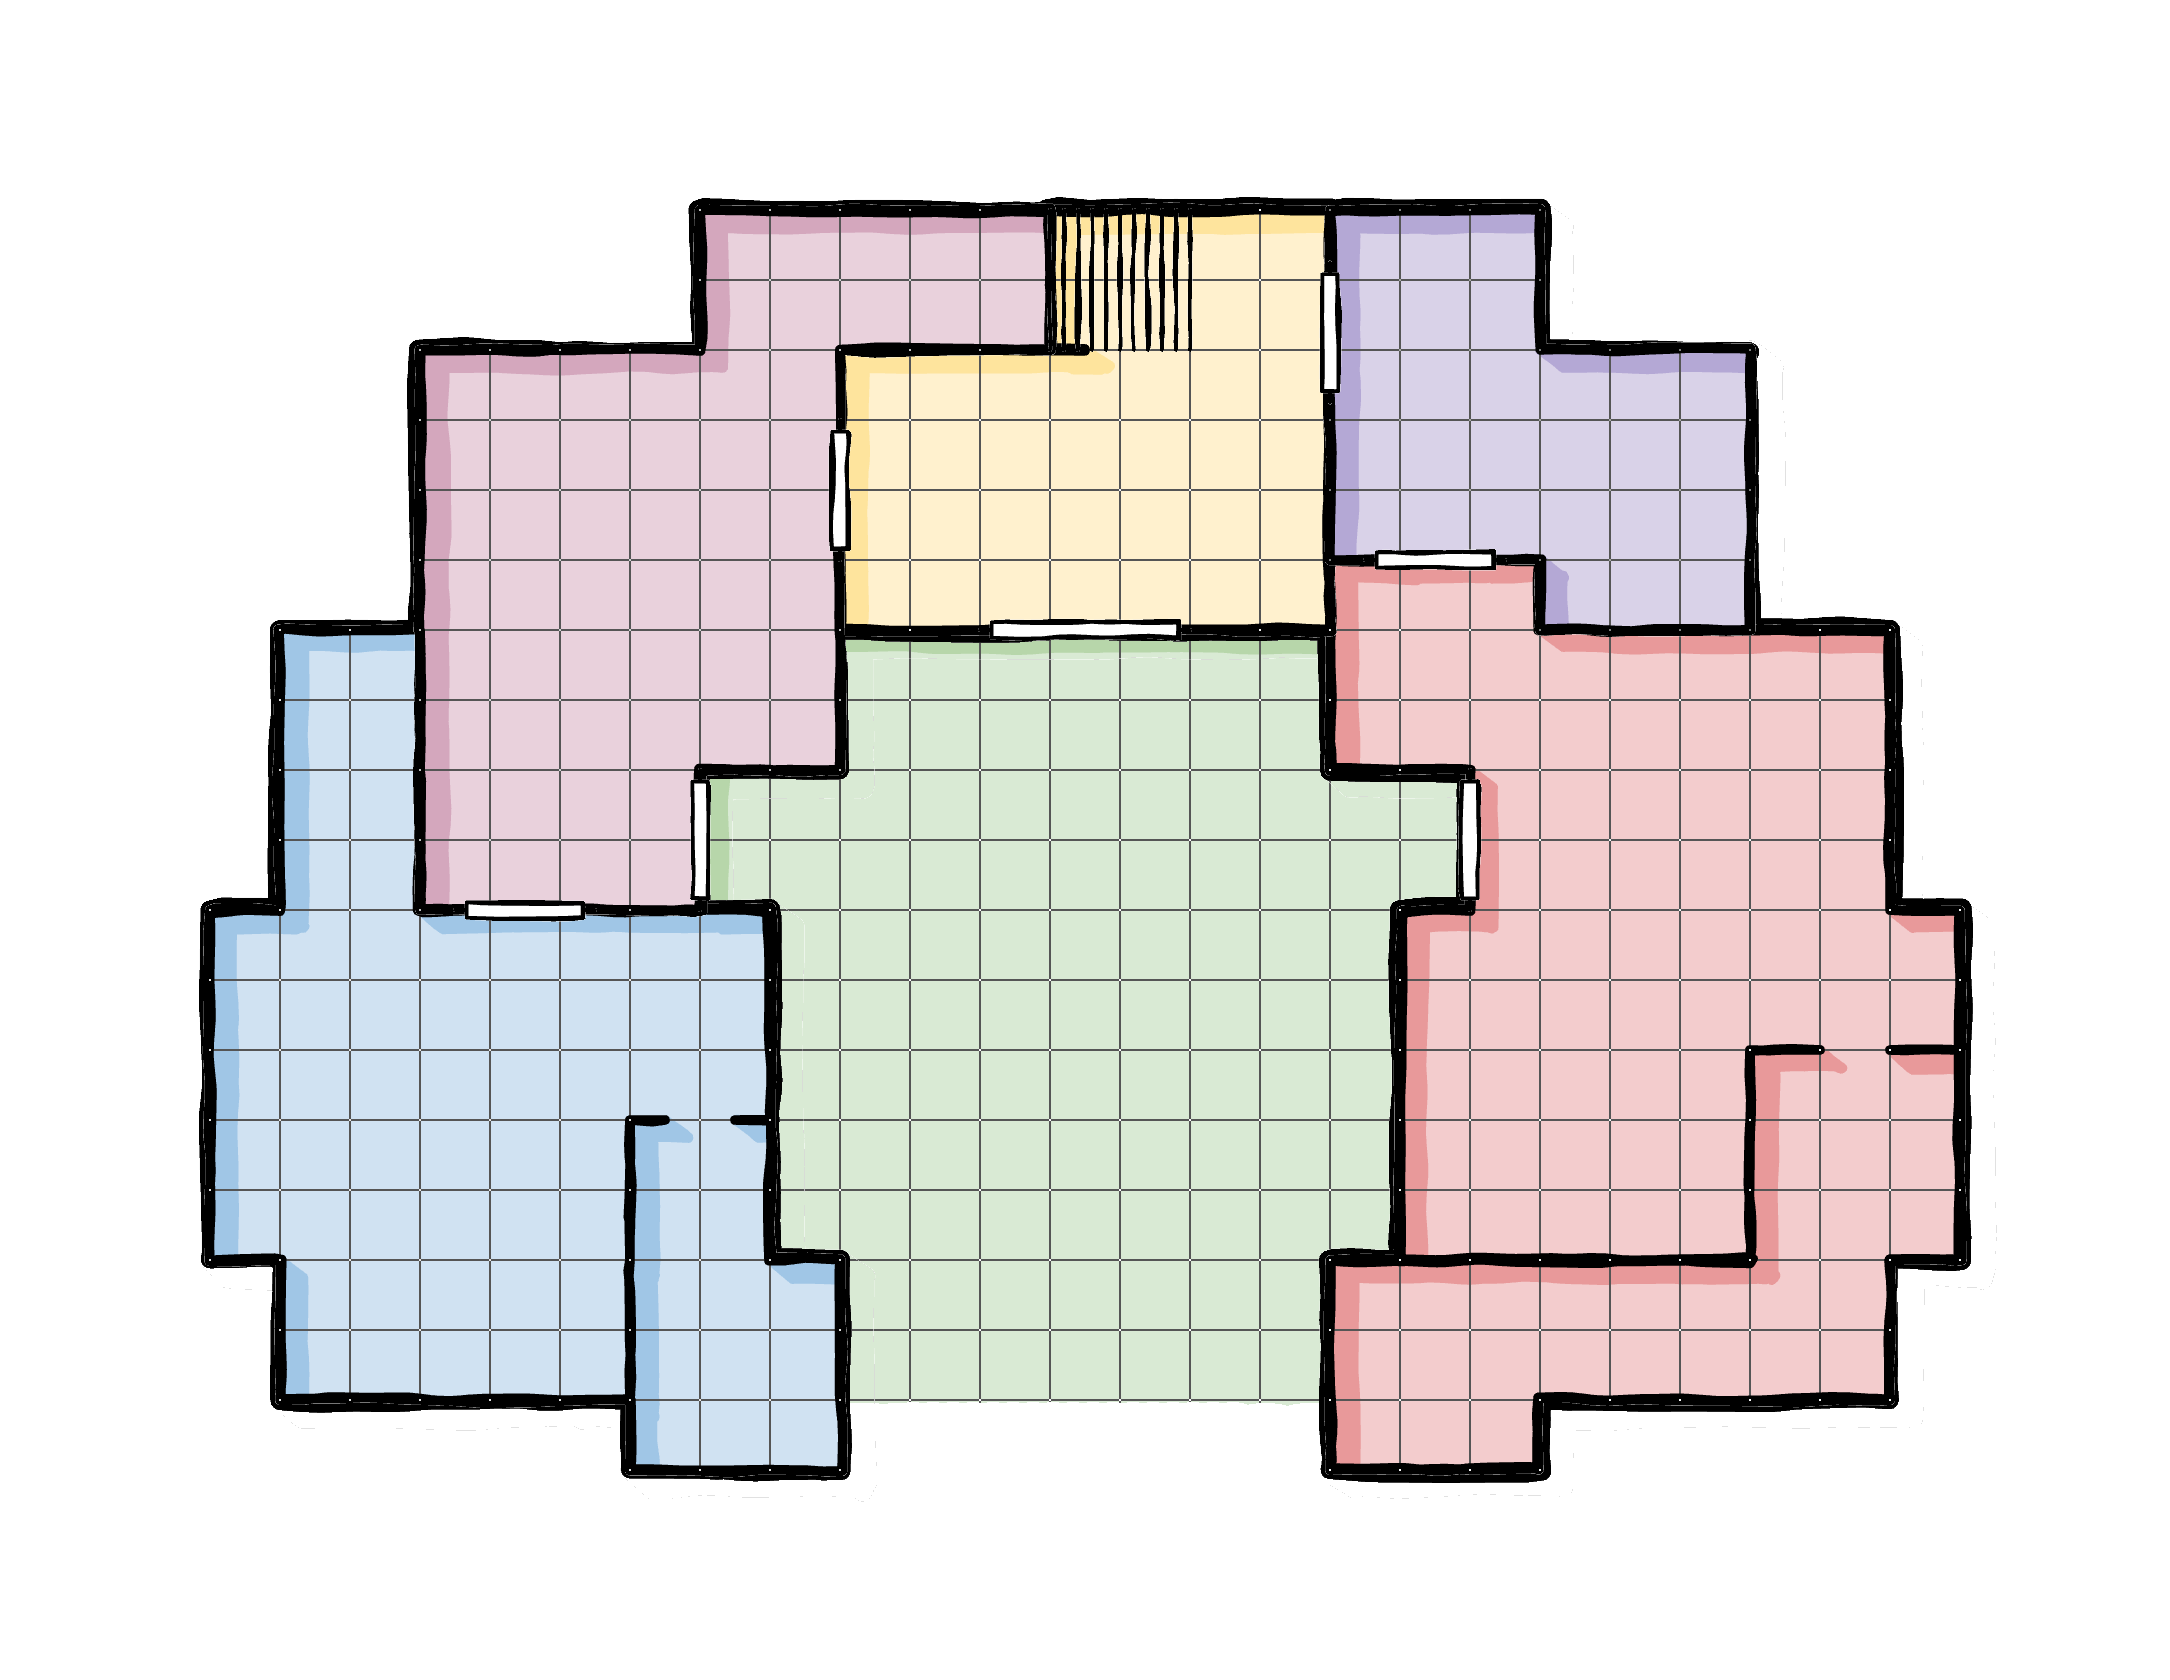
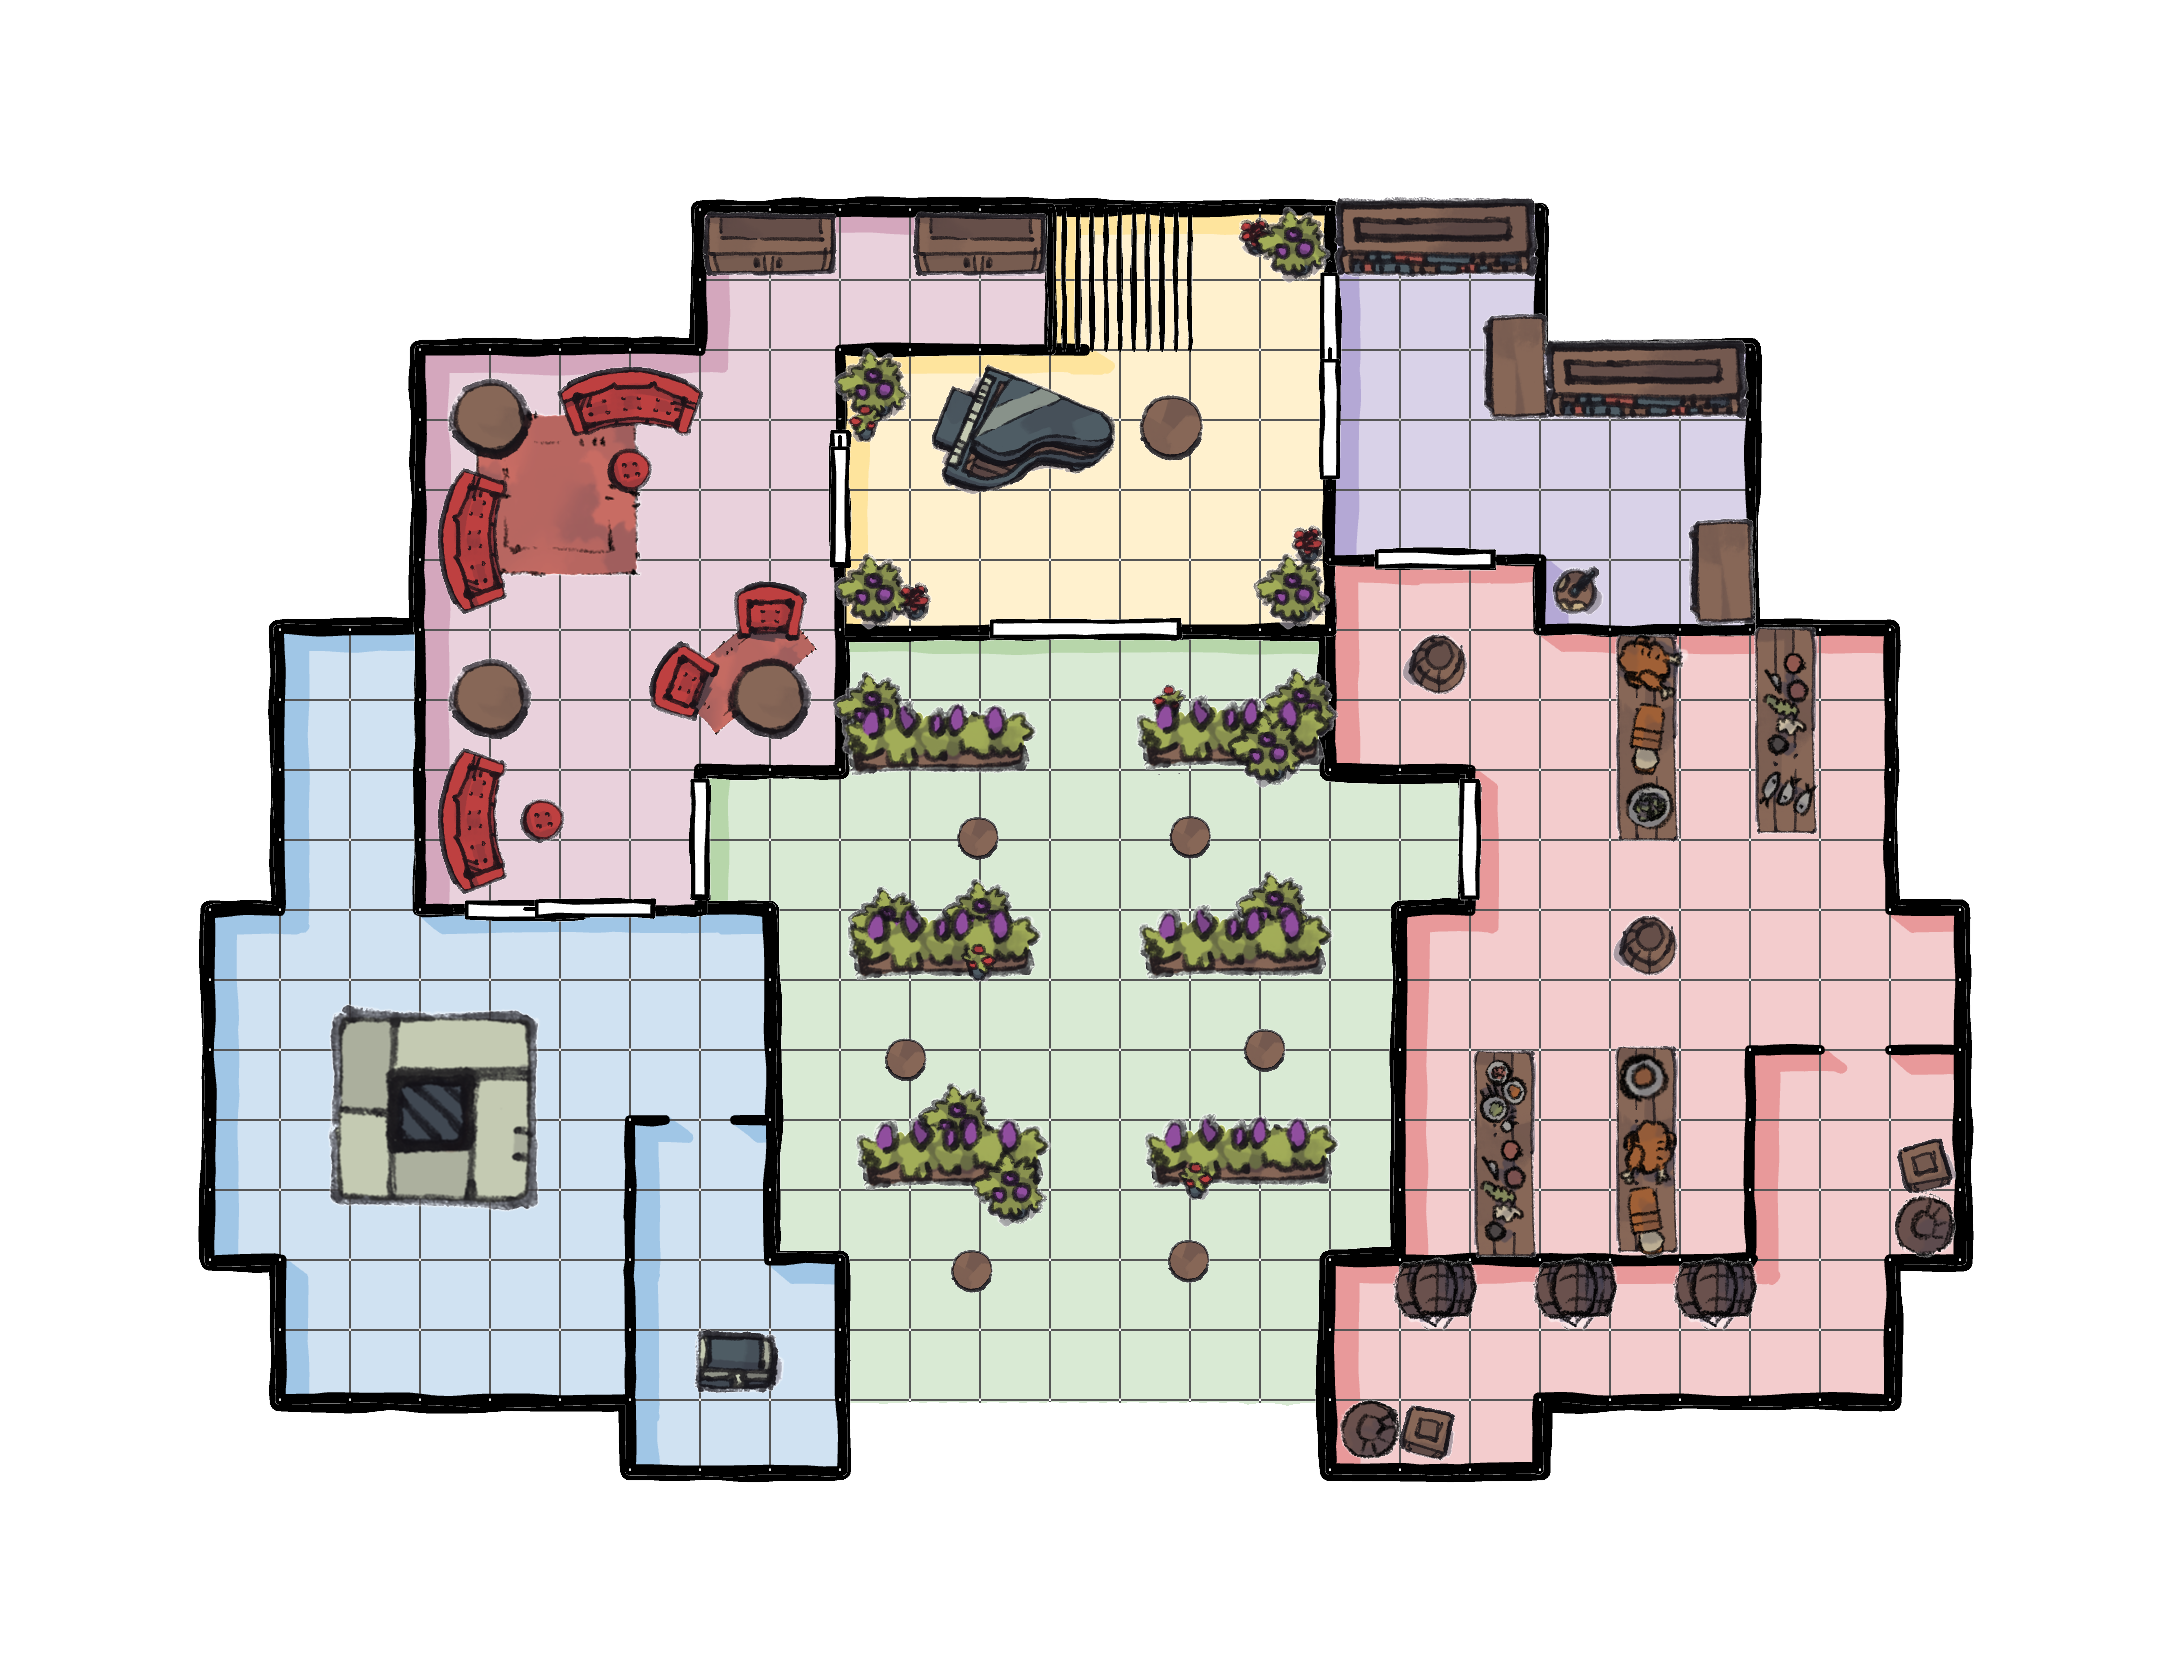
Added ability to add or remove units.

diff --git a/source/views/screens/MapScreen.view.js b/source/views/screens/MapScreen.view.js
@@ -1,19 +1,15 @@
 import Poin from "poin"
 import * as Preact from "preact"
 import Data from "models/Data.js"
+import Firebase from "models/Firebase.js"
 
 import "views/screens/MapScreen.view.less"
 
-const UNITS = [
-    {
-        "name": "Cuthos",
-        "color": "yellow",
-        "position": {
-            "x": -16,
-            "y": +32,
-        }
-    }
-]
+function SYNC_DATA() {
+    Firebase.data.collection("campaigns").doc("theros").update({
+        "units": Data.campaign.units
+    })
+}
 
 export default class MapScreen {
     render() {
@@ -25,7 +21,7 @@ export default class MapScreen {
                     "background-image": "url(" + require("images/map.png") + ")"
                 }}/>
                 <div class="Units">
-                    {UNITS.map((unit) => {
+                    {Data.campaign.units && Data.campaign.units.map((unit) => {
                         return <Unit unit={unit}/>
                     })}
                 </div>
@@ -70,6 +66,8 @@ class Unit {
     get onMouseDown() {
         return (event) => {
             selectedUnit = this.props.unit
+
+            SYNC_DATA()
         }
     }
 }
@@ -85,6 +83,27 @@ window.addEventListener("mouseup", function(event) {
         selectedUnit.position.x = Poin.position.x - (window.innerWidth / 2)
         selectedUnit.position.y = Poin.position.y - (window.innerHeight / 2)
         selectedUnit = undefined
+    }
+})
+
+window.addEventListener("keydown", function(event) {
+    if(event.keyCode == 8) {
+        if(selectedUnit != undefined) {
+            Data.campaign.units.splice(Data.campaign.units.indexOf(selectedUnit, 1))
+        }
+        SYNC_DATA()
+    }
+    if(event.keyCode == 32) {
+        let value = window.prompt()
+        let name = value.split(" ")[0]
+        let color = value.split(" ")[1]
+        Data.campaign.units = Data.campaign.units || []
+        Data.campaign.units.push({
+            "name": name,
+            "color": color,
+            "position": {"x": 0, "y": 0},
+        })
+        SYNC_DATA()
     }
 })
 

diff --git a/source/models/Navigation.js b/source/models/Navigation.js
@@ -86,8 +86,11 @@ const Navigation = new class {
 }
 
 Navigation.on("/", function(request) {
+    return {"screen": "SplashScreen"}
+})
+
+Navigation.on("/map", function(request) {
     return {"screen": "MapScreen"}
-    // return {"screen": "SplashScreen"}
 })
 
 Navigation.on("/edit", function(request) {
